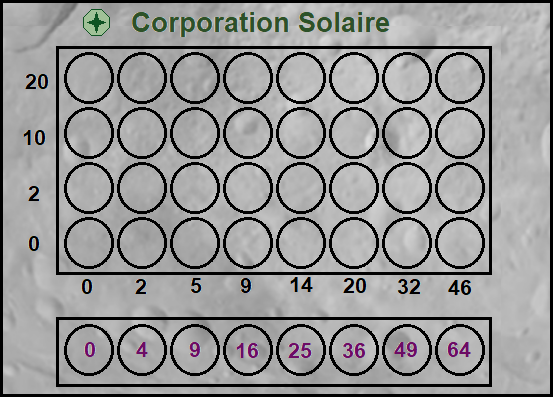
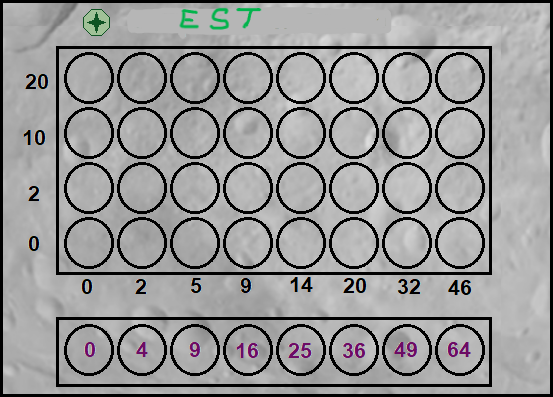
Ajout d'images et test non valide

Changed region(s): [[0.2152, 0.0, 0.7071, 0.0907]]

diff --git a/jeu/ihm/FrameDemarrage.java b/jeu/ihm/FrameDemarrage.java
@@ -193,9 +193,9 @@ public class FrameDemarrage extends JFrame implements ActionListener
 		// Gestion du bouton Jouer
 		if( e.getSource() == this.panelBoutons.btnJouer )
 		{
-			if (this.panelBoutons.lstTheme.getSelectedItem() == null)
+			if (this.panelBoutons.lstTheme.getSelectedItem() == null || this.ctrl.getElementsTheme().length != 5)
 			{
-				this.panelBoutons.lblErreur.setText("Veuillez choisir un thème.");
+				this.panelBoutons.lblErreur.setText("Thème non valide.");
 				this.panelBoutons.lblErreur.setOpaque(true);
 			}
 			else

diff --git a/README.md b/README.md
@@ -7,7 +7,8 @@ Menu prncipal :
  - Ouverture de la frame de démarrage 
  - la menuBar contient "Ouvrir", tester avec un fichier. Faire la même chose avec "Scenario" qui utilise un fichier de scénario. Les raccourcis fonctionnent et ouvrent les fenetres.
  - Quitter et Alt F4 fonctionnent
- - Pour les autres boutons il faut montrer que lorsque aucun thème n’est choisi il y a le labelErreur
+ - Pour les autres boutons il faut montrer que lorsque aucun thème n'est choisi, ou qu'il n'est pas valide il y a le labelErreur
+ - L'ajout d'un thème de test fonctionne bien tant qu'il est bien écrit avec ses images
  - Quand on en choisi un il disparait
  - Ouverture de la frame de modification :
  - Montrer que l’on peut déplacer les sommets,
